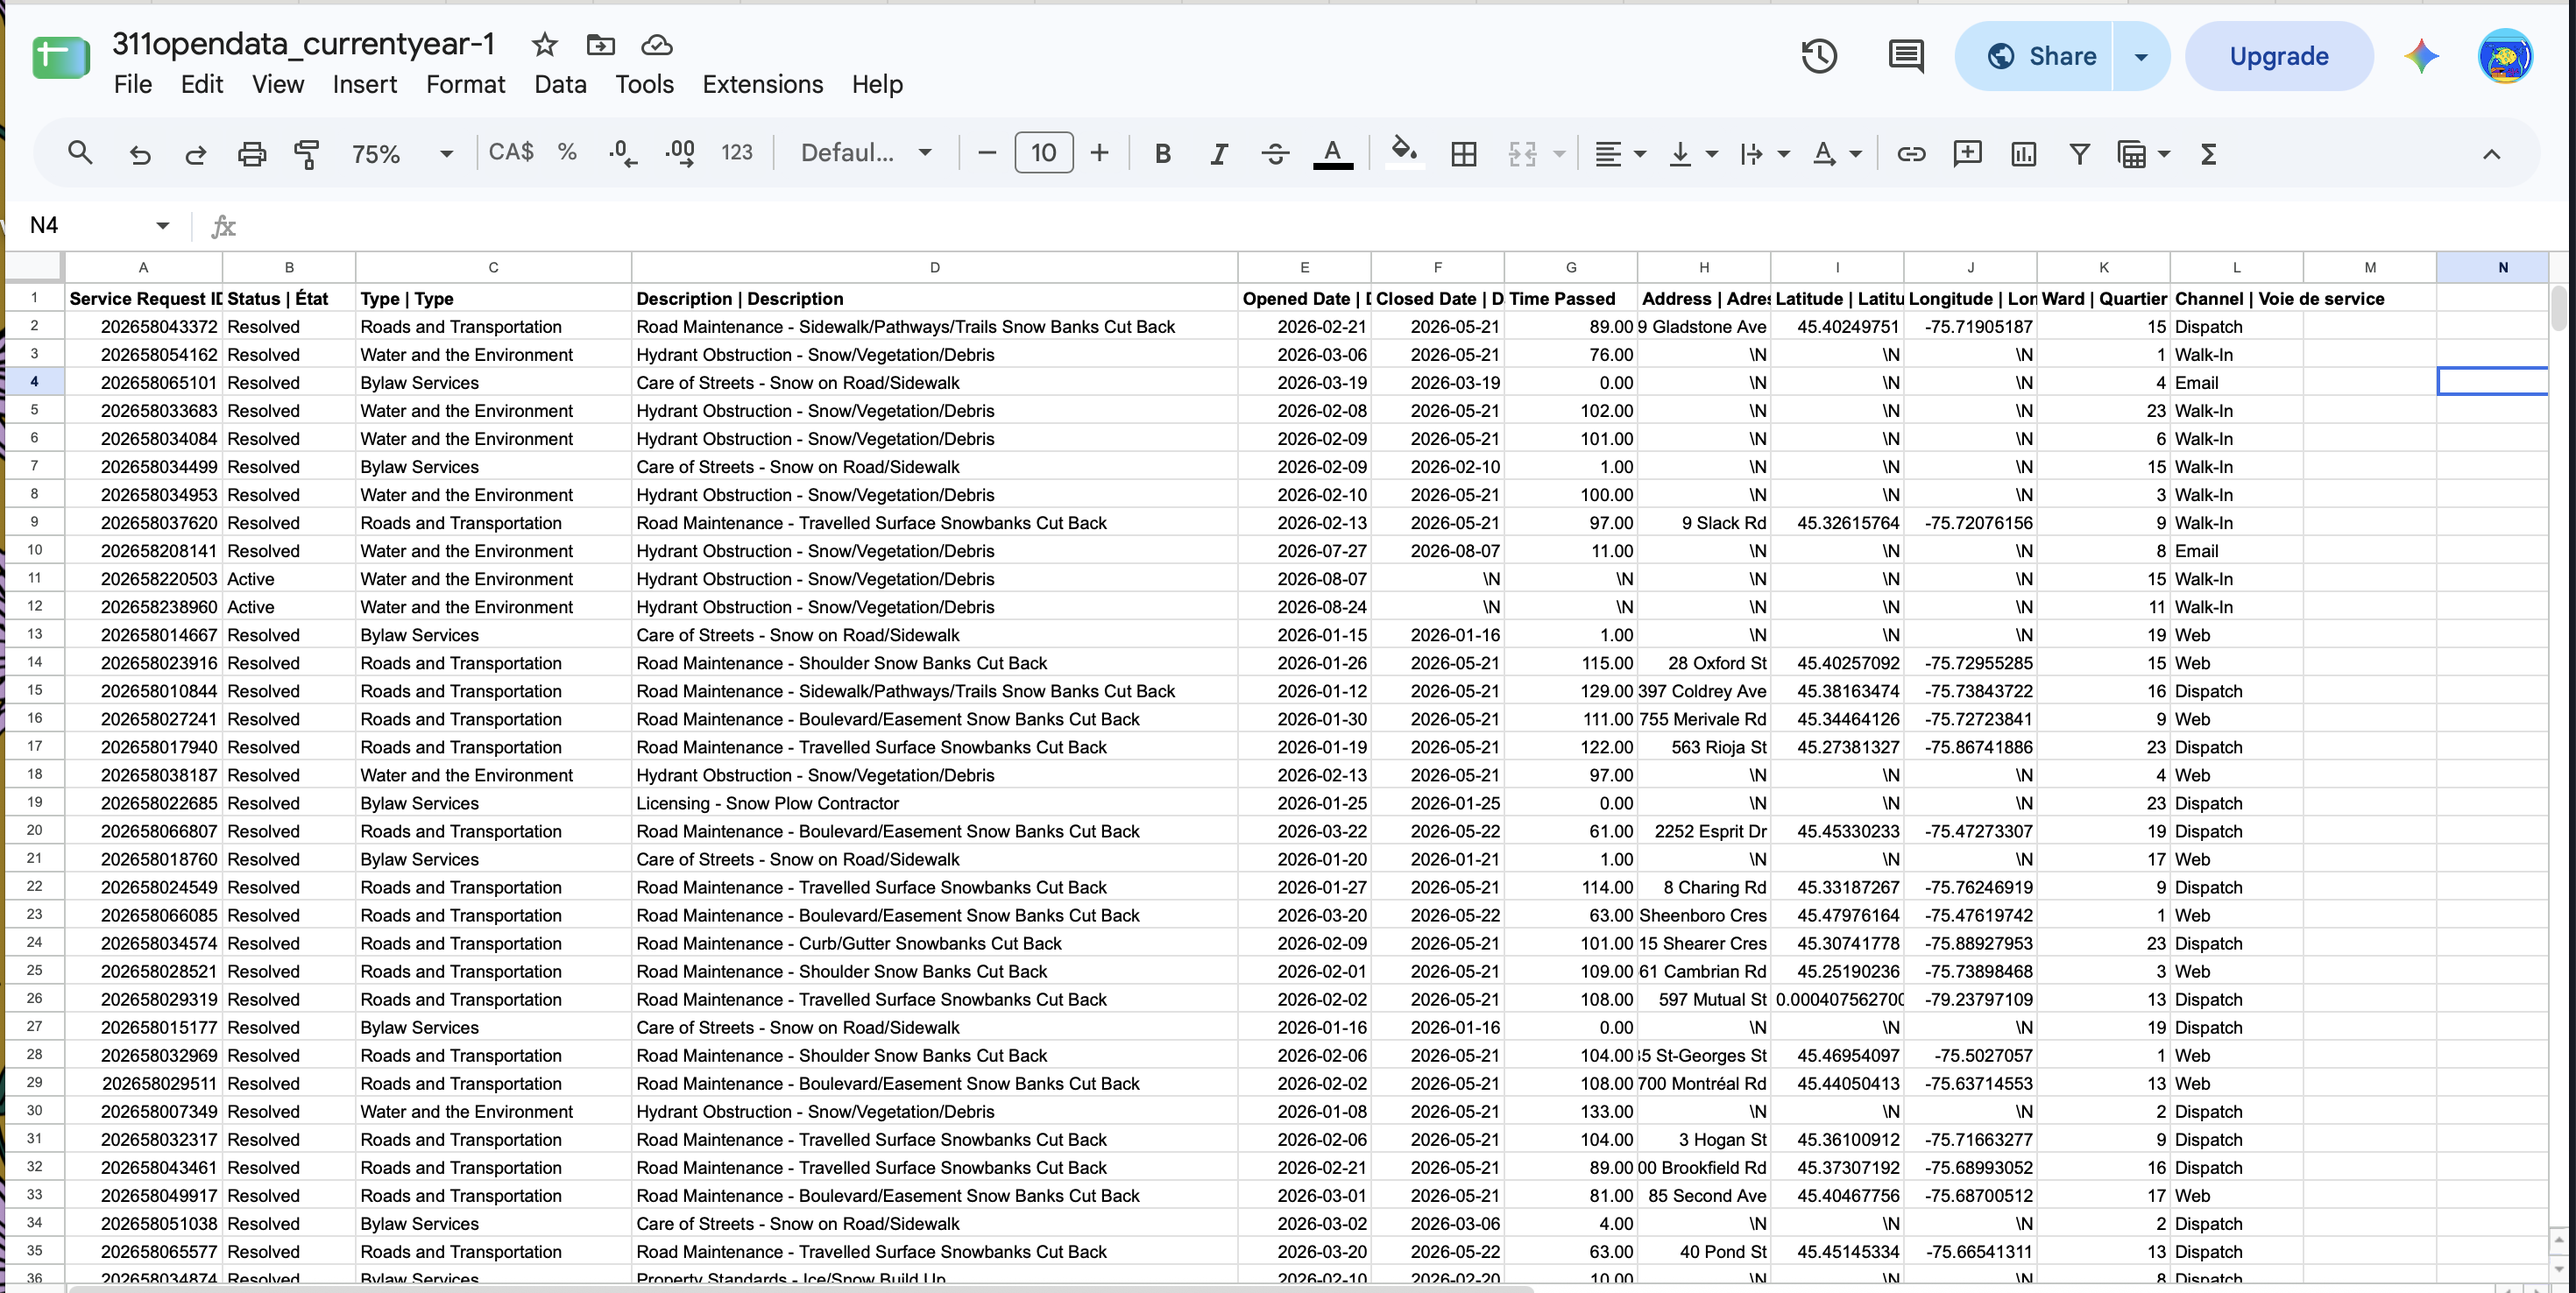
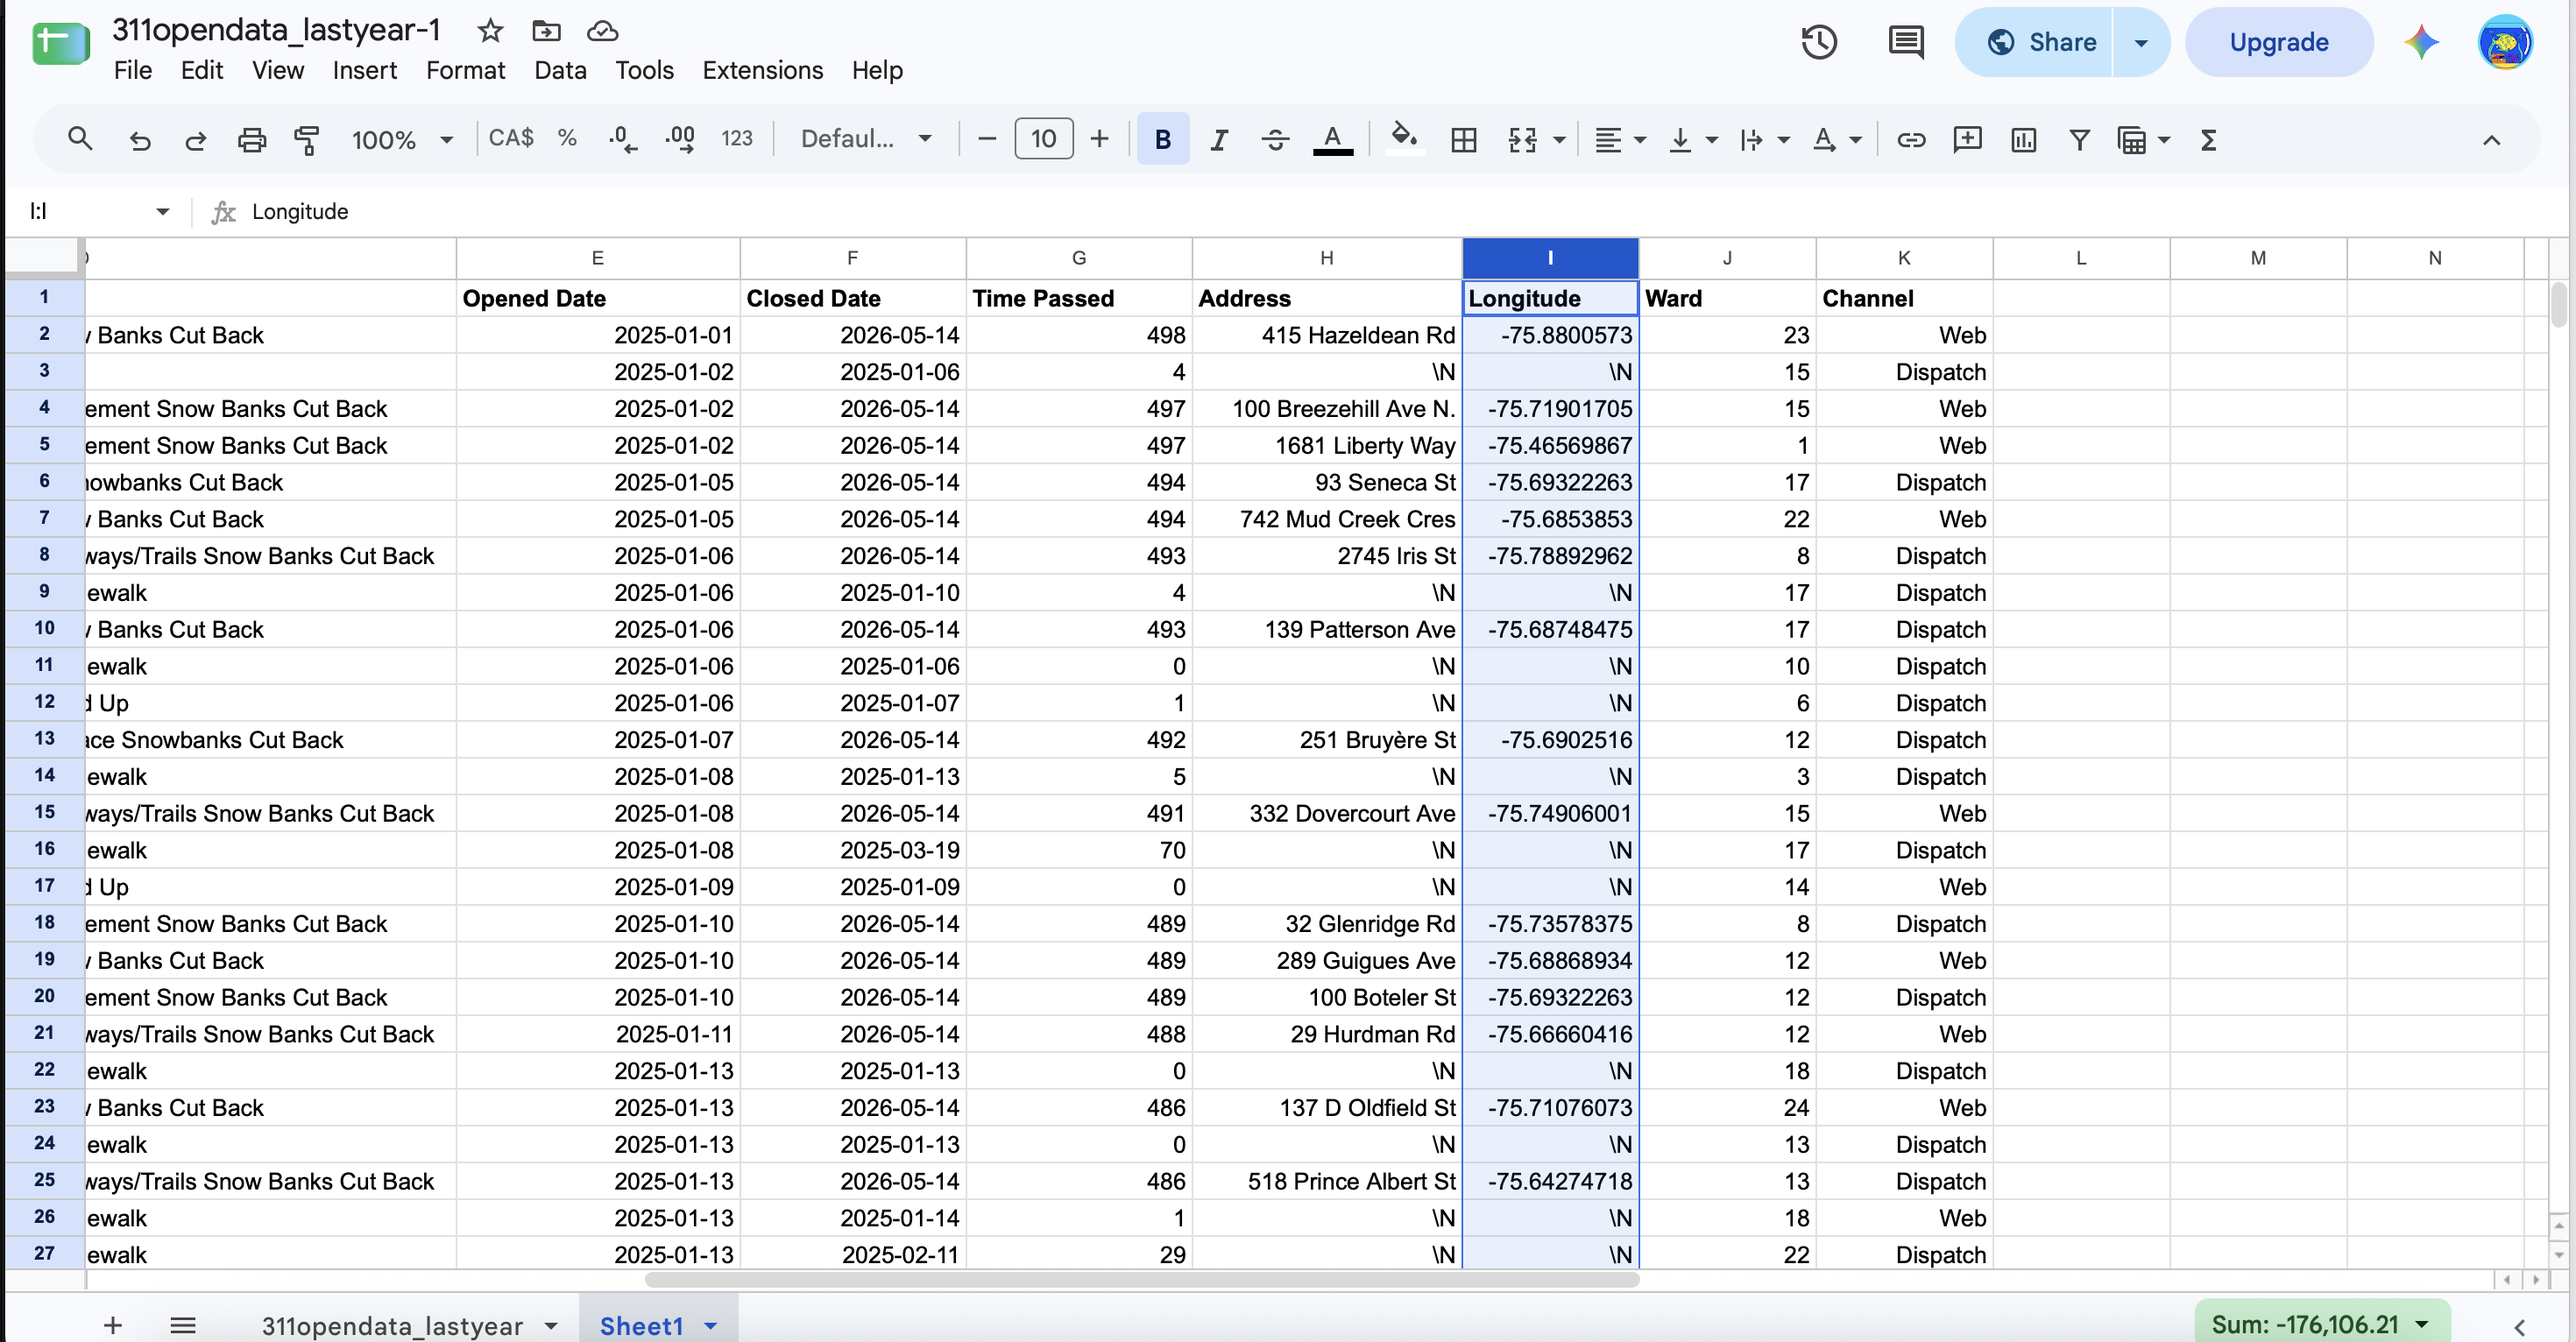
Finished VIMO analysis and completed 2.2 Cleaning Data

Changed region(s): [[0.0, 0.0, 1.0, 1.0], [0.0, 0.0935, 0.0619, 0.1247]]

diff --git a/popescu_mpad_2003_deliverable_2.md b/popescu_mpad_2003_deliverable_2.md
@@ -66,9 +66,11 @@ This also shows how to create an ordered list. Simply put `1.` before each item.
 
 ### 2.1. VIMO Analysis
 
-Use three hashtag symbols (`###`) to create a level 3 heading like this one. Please follow this template when it comes to level 1 and level 2 headings. However, you can use level 3 headings as you see fit.
-
-Insert text here.
+For this section, I will use the data from the current year. 
+V-Valid: Column B looks at the status of the demand, in this case it's between Active and Resolved.
+I-Invalid: Column G of Total Time Passed contains amounts that are in the negatives, which do not make sense. So that means that the issue was resolved before the issue was reported. There is also some information in column F about closing dates happening this summer which is a bit odd for a winter request. 
+M-Missing: A lot of addresses have "\N", it doesn't matter much since we still get the ward, but it's still missing information.
+O-Outlier: I'm not seeing any outliers, but I do see that for Total Time Passed there are a lot of numbers in the hundreds.
 
 Support your claims by citing relevant sources. Please follow [APA guidelines for in-text citations](https://apastyle.apa.org/style-grammar-guidelines/citations).
 
@@ -78,18 +80,32 @@ As seen in Bounegru & Gray (2011), a data visualization should be clear...
 
 ### 2.2. Cleaning Data
 
+I started by adding a filter on column D so that only jobs that revolve around snow would appear.
+
 ![](Screenshot_3.png)<br>
 *Figure 3: Filter the Description column so that text must contain "snow".*
+
+I then removed the french part of the information in description (column D) because it was beggining to be to hard to read. I did so by using find and replace while having column stats open so I can see what I need to type.
 
 ![](Screenshot_4.png)<br>
 *Figure 4: Replacing bilingual into only English.*
 
+I found these columns irrelevant to my project, so I deleted them.
+
 ![](Screenshot_5.png)<br>
-*Figure 5: Cleaned up spreadsheet.*
+*Figure 5: Deleting the longitude and latitude comlumns.*
+
+![](Screenshot_6.png)<br>
+*Figure 5: Cleaned up spreadsheet for this year's data.*
+
+![](Screenshot_7.png)<br>
+*Figure 5: Cleaned up spreadsheet for last year's data.*
+
+Other things I did were related to formatting such as moving all the \N's to the right side of the screen.
 
 ### 2.3. Analyzing Data
 
-Insert text here.
+
 
 **This section should include a screen capture of your pivot table, like so:**
 
